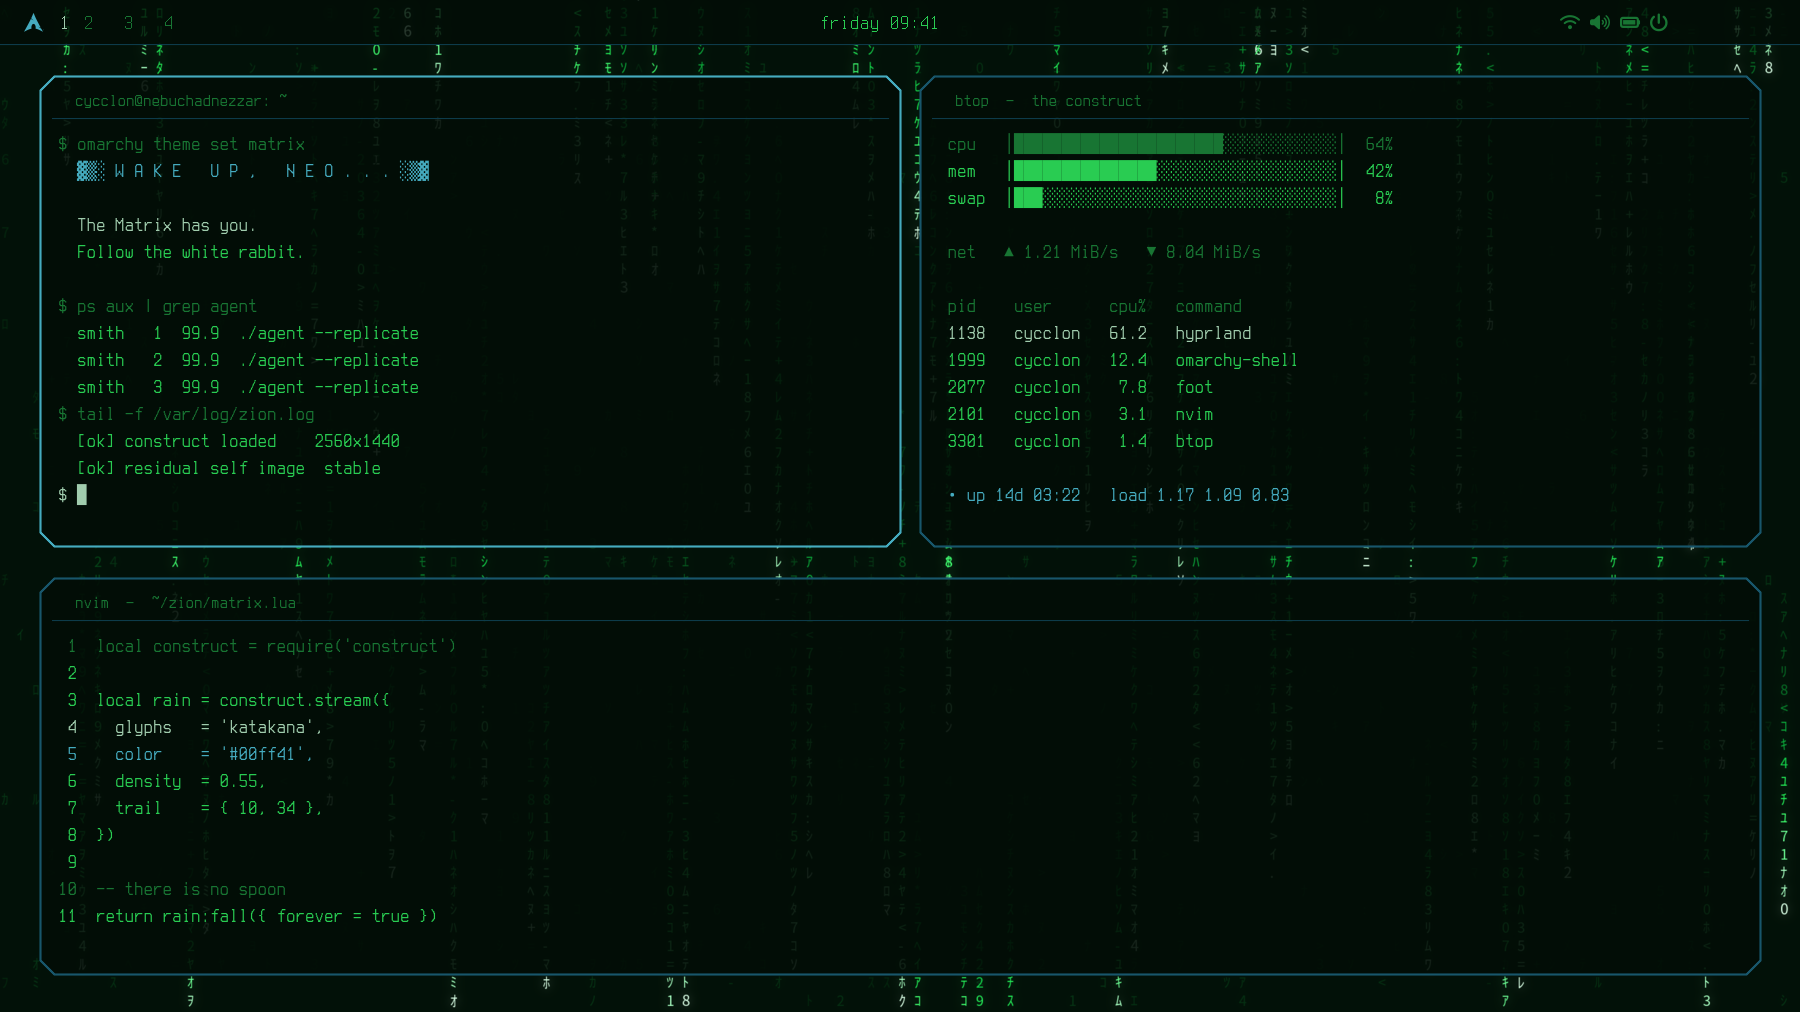
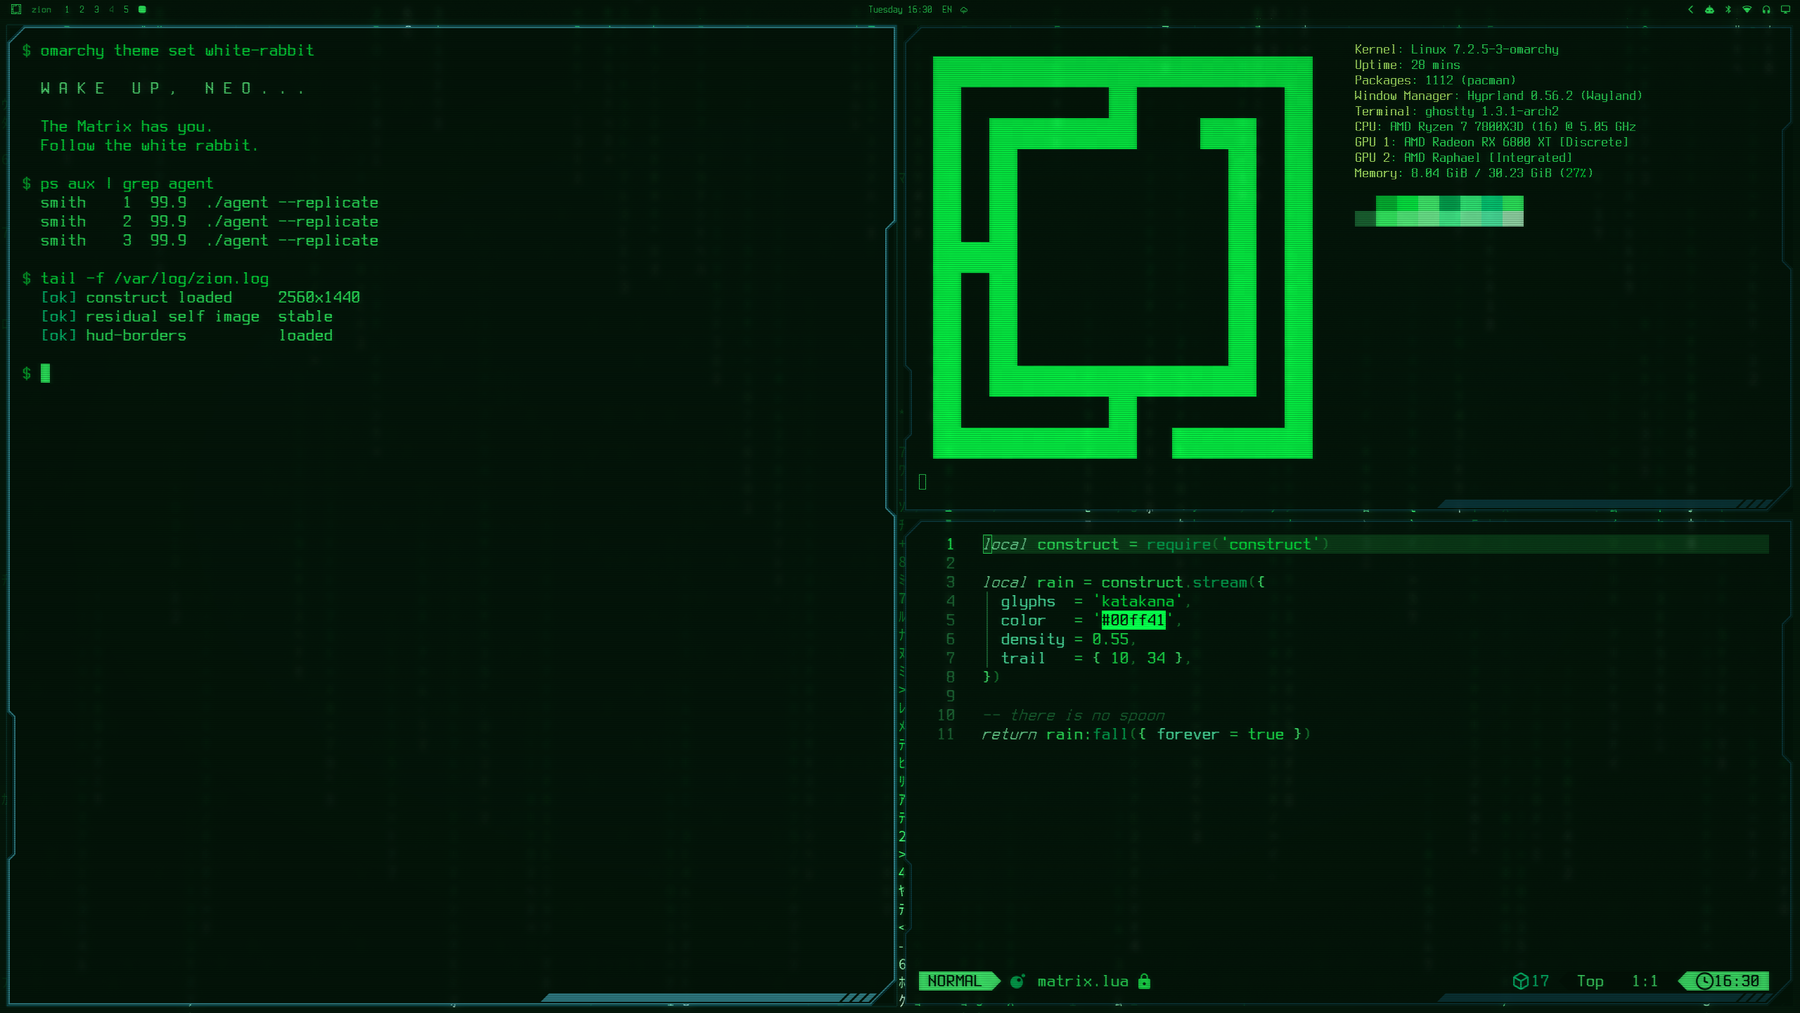
Replace the preview with real screenshots of the current theme
preview.png was a drawn mock-up of the old frame shape. It is now a
screenshot showing the cut corners, side notches and bottom gauge, and
drops from 2.1 MB to 781 KB. preview-menu.png and preview-rain.png show
the HUD menu and the screensaver, and the README displays both.

diff --git a/README.md b/README.md
@@ -6,6 +6,10 @@ cyan HUD window frames — Kid's Story terminal, not a movie poster.
 
 ![preview](preview.png)
 
+| The HUD menu | The digital-rain screensaver |
+|---|---|
+| ![menu](preview-menu.png) | ![screensaver](preview-rain.png) |
+
 ## What this is
 
 Six pieces working together under one Hyprland session:
